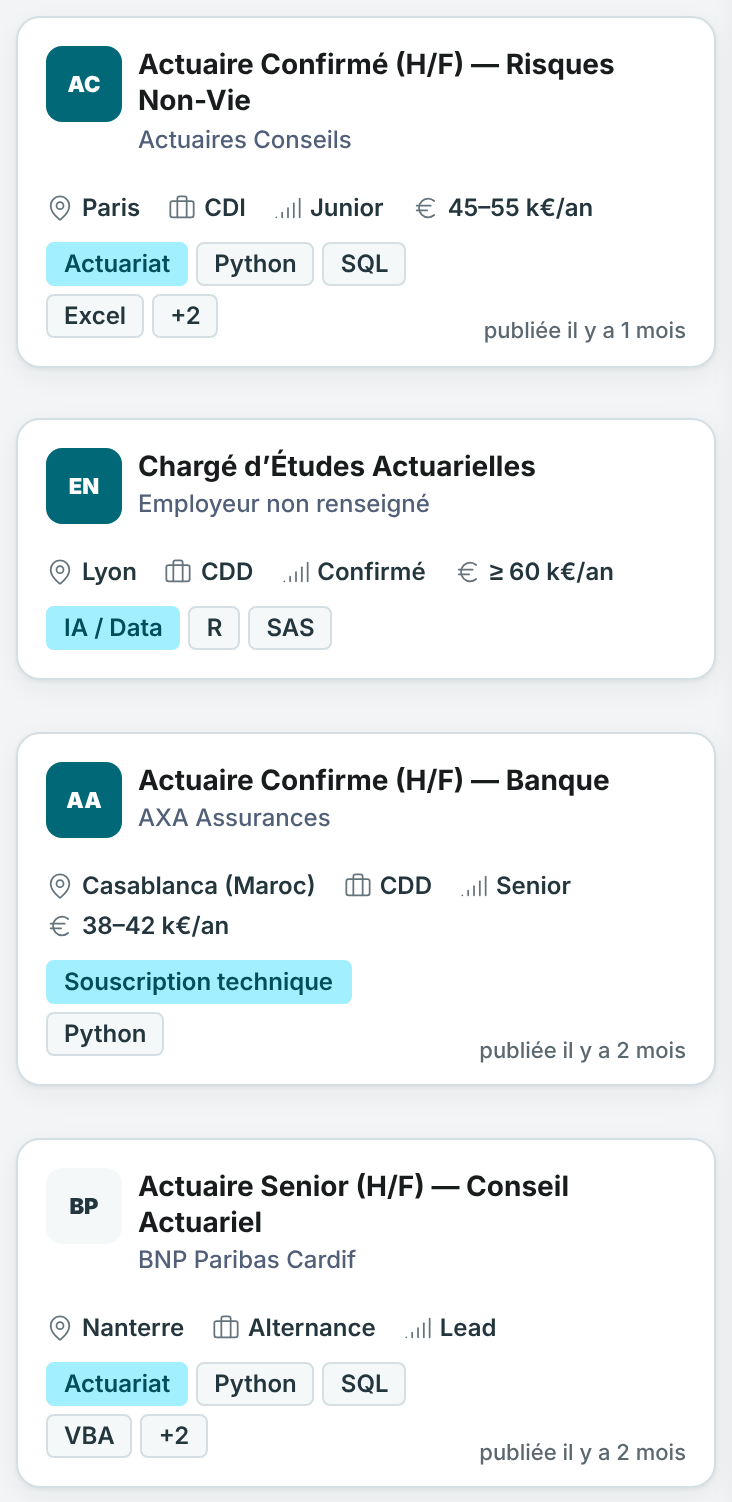
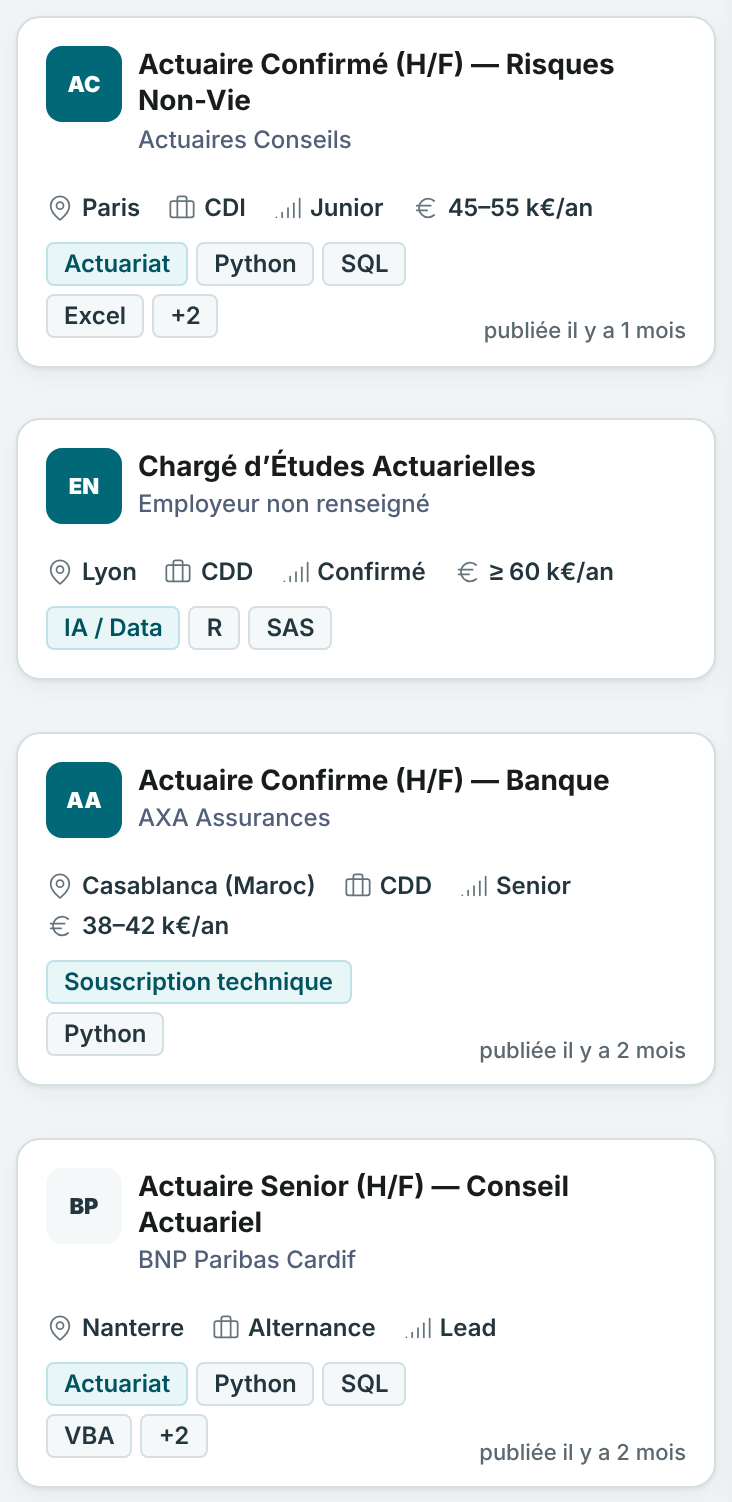
docs(T10): captures révisées, spécialité en teal comme l'ancienne pastille du lieu
Claude-Session: https://claude.ai/code/session_017SrhfB8s8t7m1GLLjon6xN

diff --git a/LISEZMOI.md b/LISEZMOI.md
@@ -6,7 +6,8 @@ Noms : `<surface>-<largeur>-<jour|nuit>.png` (board = job-board.html, accueil = 
 
 ## proposition/ — cahier des charges du propriétaire (remplace l'option 1)
 
-- `comparaison.png` : board 1440 px, jour, trois colonnes AVANT (actuel) / OPTION 1 (PR #125 précédente) / PROPOSITION DU PROPRIÉTAIRE.
+- `comparaison.png` : board 1440 px, jour, trois colonnes AVANT (actuel) / OPTION 1 (PR #125 précédente) / PROPOSITION RÉVISÉE (spécialité teal comme l'ancien lieu).
+- `comparaison-nuit.png` : même comparaison en thème nuit.
 - `comparaison-elements-manquants.png` : même comparaison sur des cartes à éléments manquants (sans salaire, sans compétences, sans spécialité, sans lieu).
 - `<surface>-<largeur>-<jour|nuit>.png` : cartes complètes ; `...-suite.png` : cartes à éléments manquants (sans lieu, sans salaire, sans spécialité, sans compétences).
 - `sources/` : les captures « avant » et « option 1 » utilisées pour la comparaison (mêmes offres de test).
